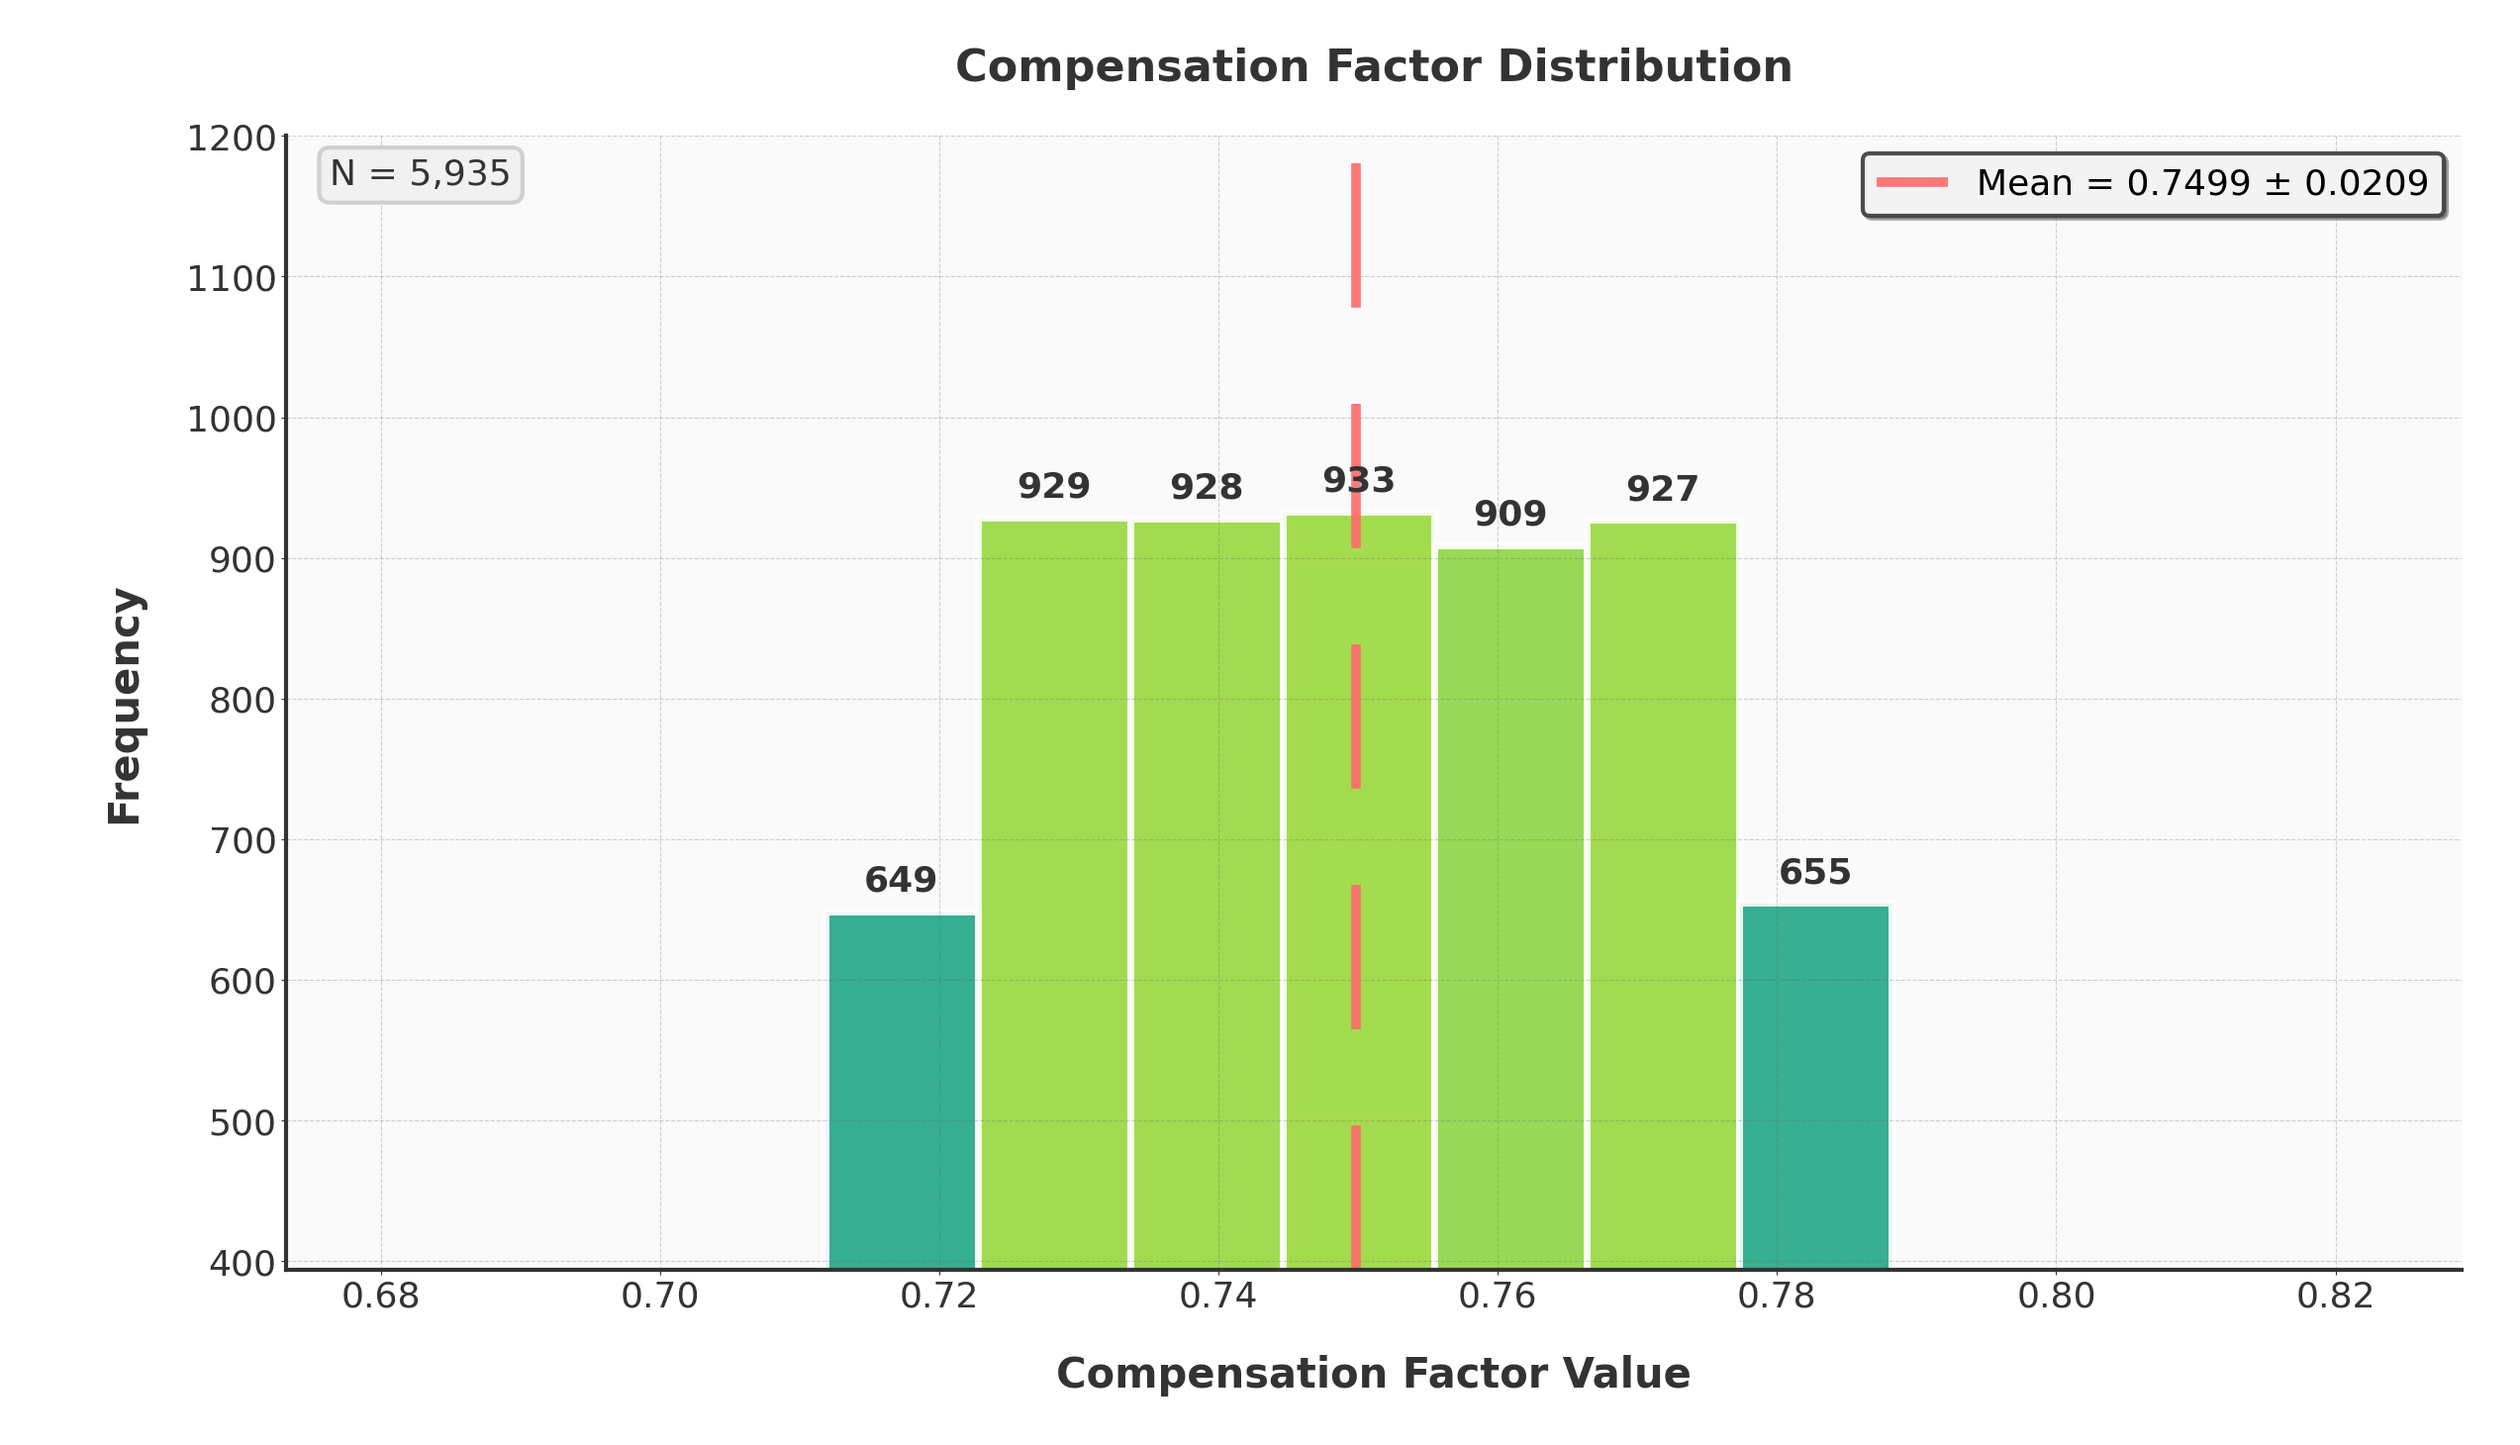
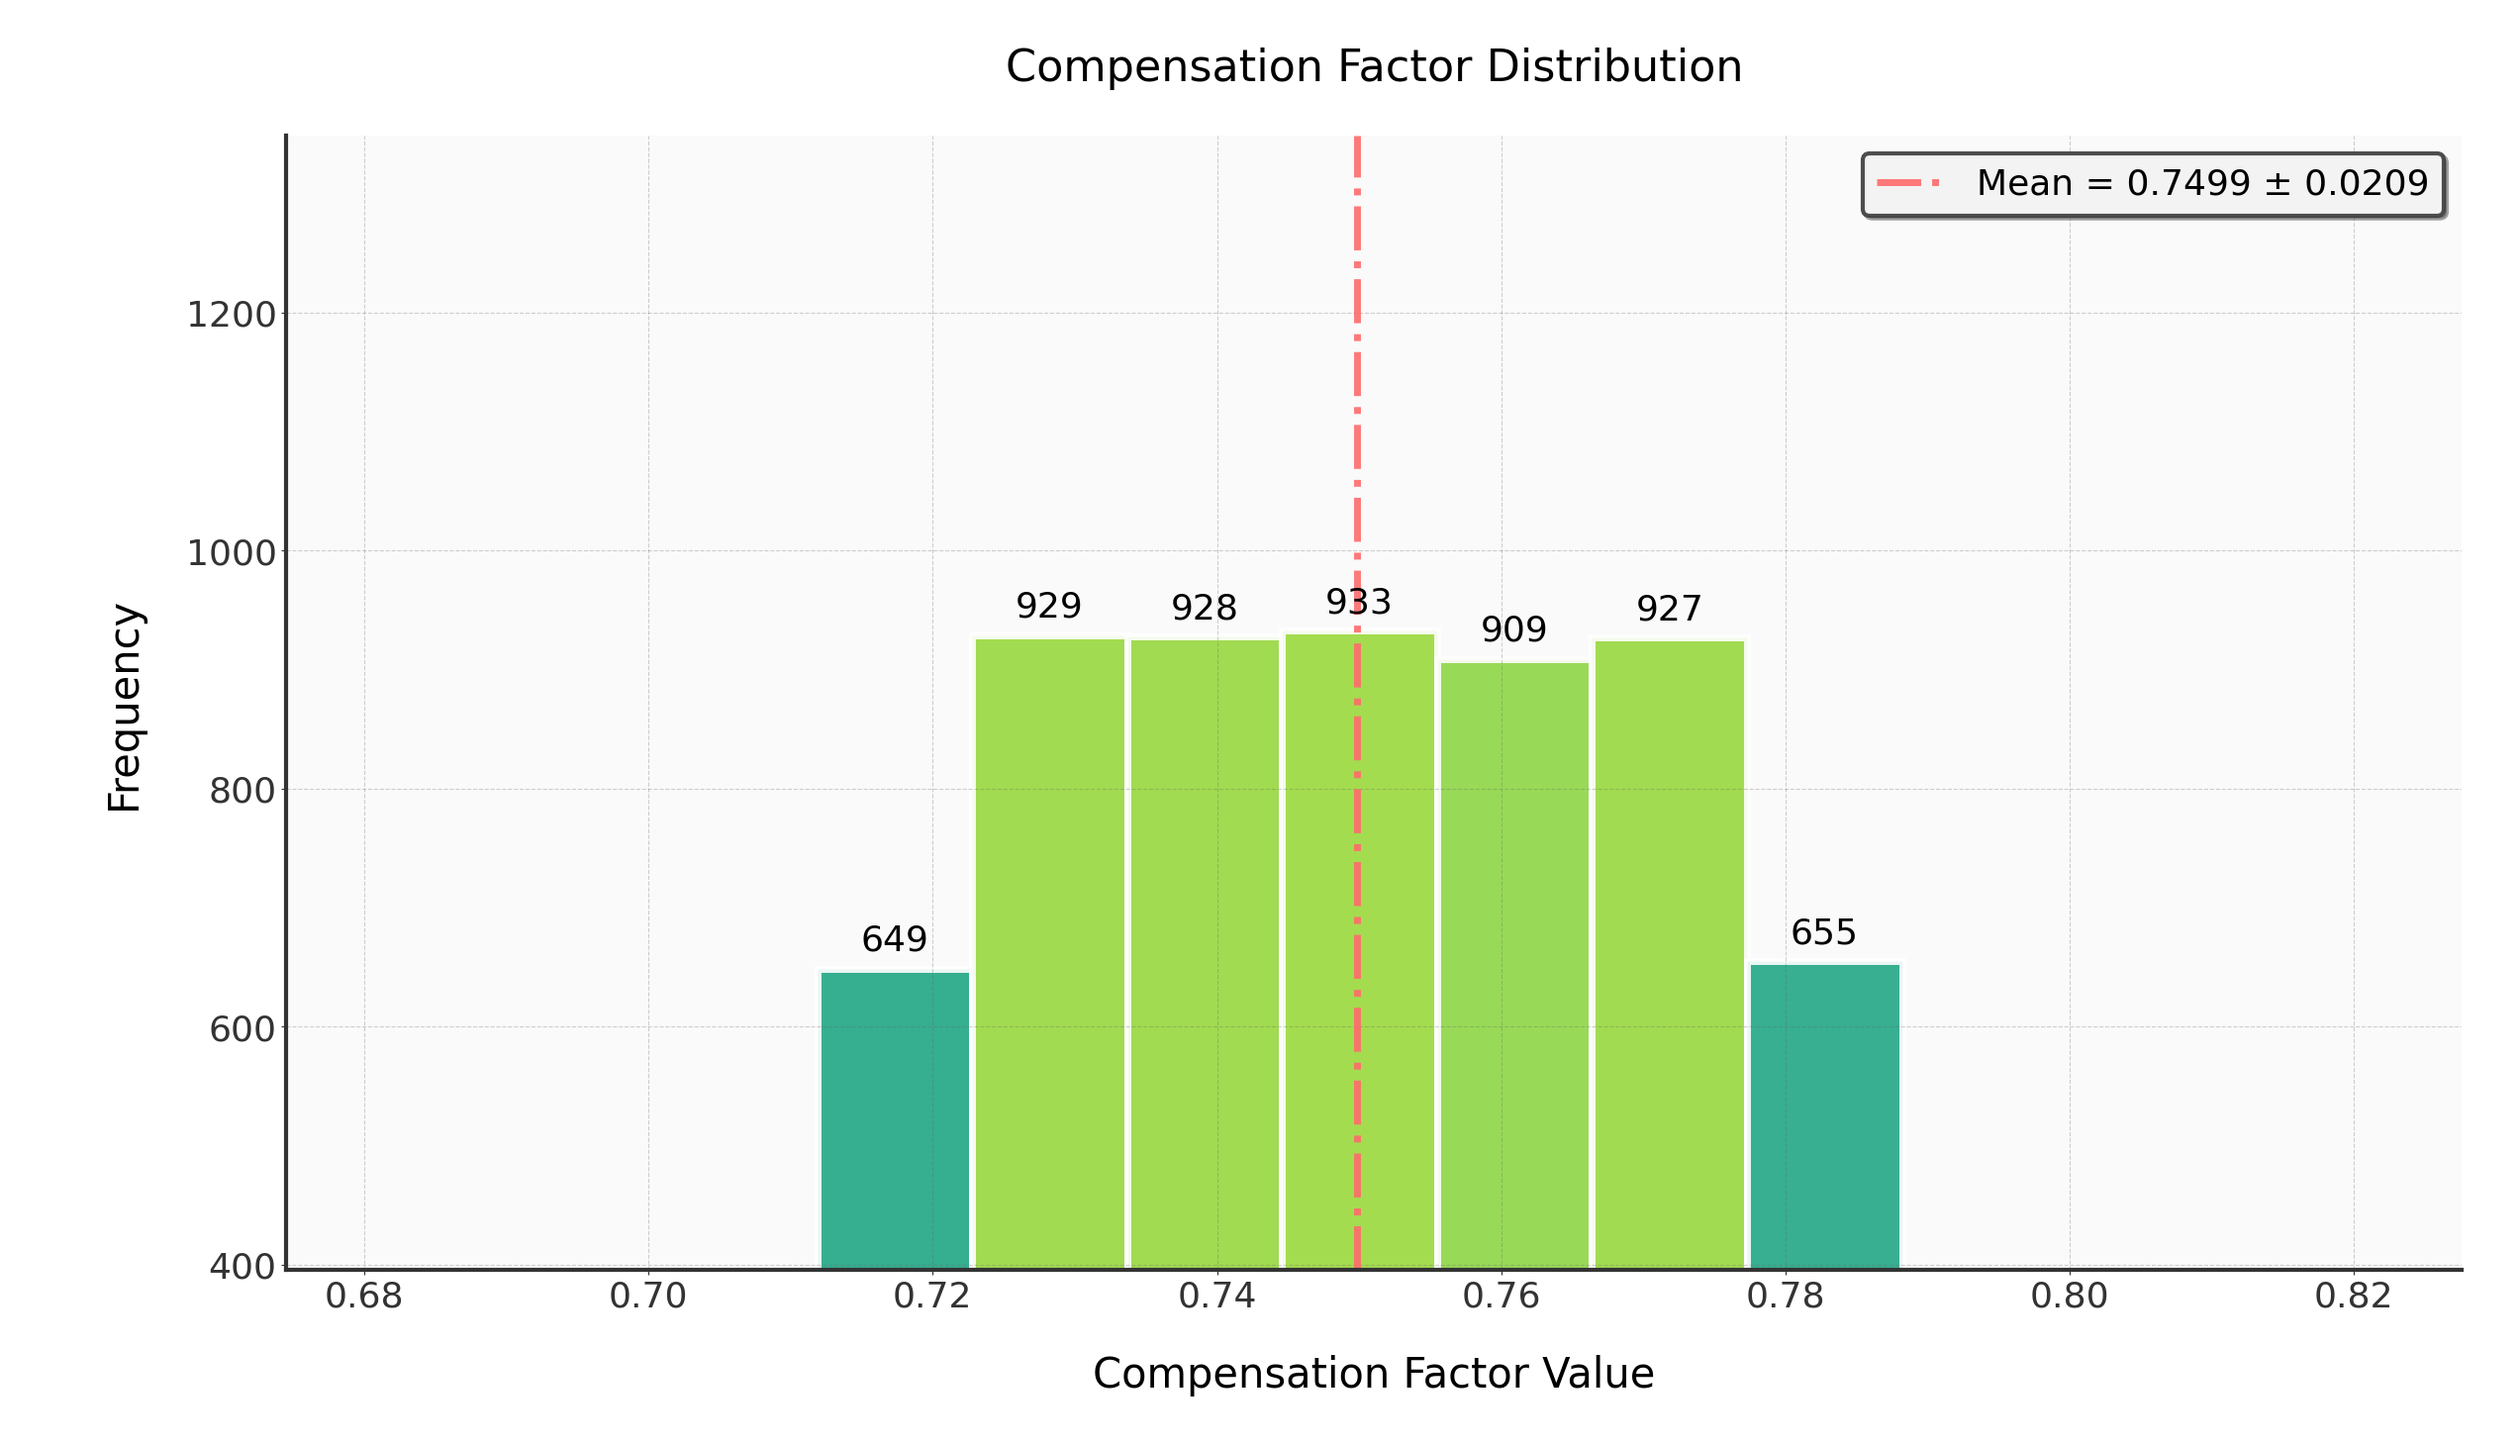
mdf plot

diff --git a/script/rate.py b/script/rate.py
@@ -39,42 +39,29 @@ def plot_rate_histogram(rates, bar_cmap='viridis', edge_color="white",
     for count, patch in zip(counts, patches):
         patch.set_facecolor(cmap(norm(count) * shade))
     
-    plt.axvline(average, color=avg_line_color, linestyle='-.', linewidth=7, 
-                alpha=0.9, dashes=(15, 10),
-                label=f'Mean = {average:.4f} ± {std_dev:.4f}')
+    plt.axvline(average, color=avg_line_color, linestyle='-.', linewidth=5, 
+                alpha=0.9, label=f'Mean = {average:.4f} ± {std_dev:.4f}')
     
     for count, bin_edge in zip(counts, bins):
         if count > 0:
             plt.text(bin_edge + (bins[1]-bins[0])/2, count + max(counts)*0.01, 
                      f'{int(count)}', ha='center', va='bottom', 
-                     fontsize=26, color=text_color, fontweight='bold')
+                     fontsize=26)
     
     ax.spines[['top', 'right']].set_visible(False)
     ax.spines[['left', 'bottom']].set_color(text_color)
     ax.tick_params(colors=text_color, labelsize=26)
     
-    plt.title("Compensation Factor Distribution", fontsize=32, 
-              fontweight='bold', pad=40, color=text_color)
-    plt.xlabel("Compensation Factor Value", fontsize=30, 
-               fontweight='bold', color=text_color, labelpad=30)
-    plt.ylabel("Frequency", fontsize=30, fontweight='bold', 
-               color=text_color, labelpad=30)
+    plt.title("Compensation Factor Distribution", fontsize=32, pad=40)
+    plt.xlabel("Compensation Factor Value", fontsize=30, labelpad=30)
+    plt.ylabel("Frequency", fontsize=30, labelpad=30)
     
     ax.grid(True, alpha=0.3, linestyle='--', color='#666666')
     
-    legend = plt.legend(frameon=True, fancybox=True, 
-                       shadow=True, framealpha=0.95, fontsize=26,
-                       loc='upper right')
+    legend = plt.legend(frameon=True, fancybox=True, shadow=True, framealpha=0.95, fontsize=26, loc='upper right')
     legend.get_frame().set_edgecolor('#444444')
     legend.get_frame().set_linewidth(3.0)
     legend.get_frame().set_facecolor('#f8f8f8')
-    
-    stats_text = f'N = {len(rates):,}'
-    plt.text(0.02, 0.98, stats_text, transform=ax.transAxes, 
-             fontsize=26, verticalalignment='top',
-             bbox=dict(boxstyle='round', facecolor='#f0f0f0', alpha=0.9,
-                      edgecolor='#cccccc', linewidth=3.0),
-             color=text_color)
     
     ax.set_facecolor('#fafafa')
     fig.patch.set_facecolor('#ffffff')

diff --git a/script/evaluation.py b/script/evaluation.py
@@ -317,9 +317,11 @@ def ranging_plot(ranging1, ranging1_sys_time, ranging2, ranging2_sys_time, rangi
     plt.plot(ranging2_sys_time, ranging2, color="#E4491E", label=name2, linestyle='--', marker='x', markersize=4, linewidth=1.5)
     plt.plot(ranging3_sys_time, ranging3, color="#FF7B00", label=name3, linestyle='--', marker='x', markersize=4, linewidth=1.5)
     plt.plot(vicon_sys_time, vicon, color="#9DF423", label='VICON', alpha=0.8, linestyle='-', marker='o', markersize=4, linewidth=1.5)
-    plt.xlabel('Time (ms)', fontsize=20) 
-    plt.ylabel('Distance Measurement',  fontsize=20)
-    plt.title(f'{name1} vs {name2} vs {name3} vs VICON Distance Measurements Over Absolute Time',  fontsize=20)
+    plt.xlabel('Time (ms)', fontsize=30, labelpad=30) 
+    plt.ylabel('Distance Measurement', fontsize=30, labelpad=30)
+    plt.title(f'{name1} vs {name2} vs {name3} vs VICON Distance Measurements Over Absolute Time', fontsize=32, pad=40)
+    plt.xticks(fontsize=16)
+    plt.yticks(fontsize=16) 
     plt.legend(fontsize=16) 
     plt.grid(True, linestyle='--', alpha=0.7)
     plt.tight_layout()
